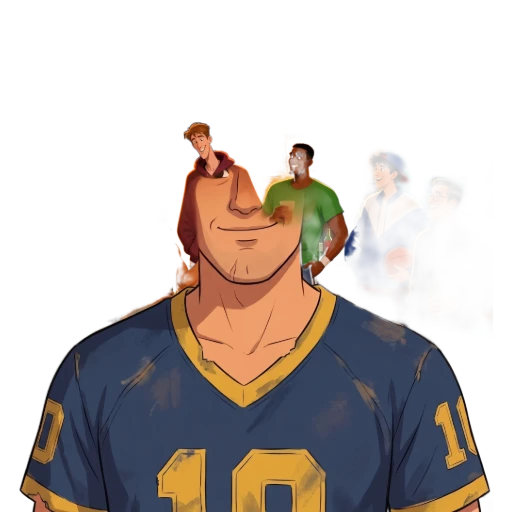
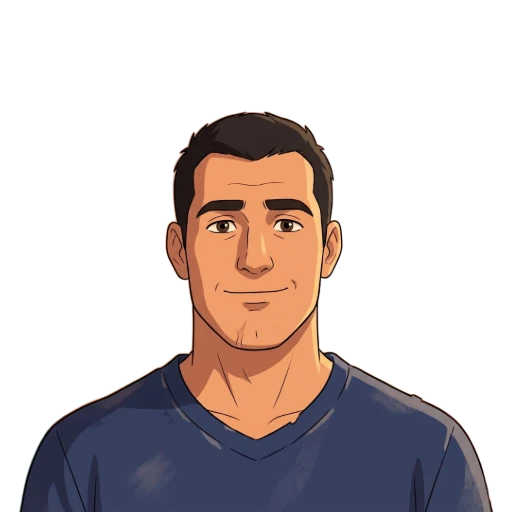
feat: el juego se juega sobre la cancha — fondo propio, y Acosta y Cardozo con cara nueva
Dos cosas que pidió Gabi.

El fondo: se terminó el gris sobre gris
Todas las pantallas del juego se apoyan ahora sobre el parqué gastado de una
cancha de barrio (fondo-cancha.webp), en un div fijo detrás de todo con un velo
oscuro encima. El velo no es decoración: sin él los paneles claros flotan sobre
un piso del mismo valor y se pierde el borde. Las cards ganaron algo de sombra
para despegarse. Queda además fondo-gimnasio.webp —la cancha desde la tribuna al
atardecer, con más carácter y más detalle— y cambiar de uno a otro es cambiar la
constante FONDO en App.tsx.

Los dos retratos que salieron mal
El leal (Acosta) y el mercenario (Cardozo) habían salido con figuras fantasma de
la portada pegadas en el fondo —el modelo copió gente de la imagen de
referencia—, el quitafondos no las borró porque estaban integradas al dibujo, y
al leal el recorte al contenido le comió media cabeza persiguiendo esos
fantasmas. Regenerados con el prompt de los seis que sí funcionaron, pidiendo
explícitamente una sola persona en cuadro y aire arriba de la cabeza. Ahora los
ocho arquetipos son de la misma familia.

De paso quedó aprendido para el próximo lote: el prompt que dice "fondo plano y
vacío" invita al modelo a llenar el fondo con lo que ve en la referencia; el que
dice "pared del club fuera de foco" no.

Trabajado desde Opus.

diff --git a/src/App.tsx b/src/App.tsx
@@ -68,6 +68,14 @@ const VIEWS: Record<Tab, { label: string; sec: string; icon: IconName }> = {
  */
 const PORTADA = `${import.meta.env.BASE_URL}portada.webp`;
 
+/**
+ * Fondo de todas las pantallas del juego (no del menú, que tiene su portada).
+ * Alternativa lista en `public/arte/`: `fondo-gimnasio.webp`, la cancha vista
+ * desde la tribuna — tiene más carácter y también más detalle compitiendo con
+ * los paneles. Cambiar de fondo es cambiar este nombre.
+ */
+const FONDO = 'fondo-cancha.webp';
+
 const DIFFICULTY_INFO: Record<AbsenceDifficulty, { label: string; desc: string }> = {
   facil: { label: 'Fácil', desc: 'Casi siempre están todos: la vida molesta poco.' },
   medio: { label: 'Medio', desc: 'La vida pasa: enfermos, viajes y algún lesionado.' },
@@ -255,6 +263,14 @@ export default function App() {
     <OpenLeagueContext.Provider value={setLeagueProfileId}>
     <OpenClubContext.Provider value={setClubProfileId}>
     <NavigateTabContext.Provider value={navigate}>
+      {/* El lienzo: la cancha del club detrás de todo, con un velo encima para
+          que los paneles claros se despeguen. Antes era gris plano y los
+          paneles quedaban gris sobre gris. Va acá y no en el body porque el
+          proyecto usa base relativa: la ruta se arma con BASE_URL. */}
+      <div
+        className="fondo-app"
+        style={{ backgroundImage: `url(${import.meta.env.BASE_URL}arte/${FONDO})` }}
+      />
       {screen}
       {profileId && <PlayerProfile state={state} playerId={profileId} onClose={() => setProfileId(null)} />}
       {rivalProfileId && (

diff --git a/src/styles.css b/src/styles.css
@@ -467,6 +467,38 @@ button.danger {
   gap: 0.45rem;
 }
 
+/* ---------- Lienzo ---------- */
+
+/* La cancha del club detrás de toda la app (ver FONDO en App.tsx). Fija: no
+   scrollea con el contenido, así se lee como el piso sobre el que están
+   apoyados los paneles y no como una imagen larga que pasa. */
+.fondo-app {
+  position: fixed;
+  inset: 0;
+  z-index: -1;
+  background-color: var(--bg);
+  background-size: cover;
+  background-position: center;
+}
+
+/* El velo. Sin él los paneles claros flotan sobre un piso del mismo valor y se
+   pierde el borde; con él, el fondo es atmósfera y la lectura sigue siendo la
+   de un manager. */
+.fondo-app::after {
+  content: '';
+  position: absolute;
+  inset: 0;
+  background: linear-gradient(180deg, rgba(32, 28, 24, 0.42), rgba(24, 21, 19, 0.62));
+}
+
+/* Sobre un fondo oscuro los paneles necesitan despegarse un poco más. */
+.vista .card,
+.hub-block,
+.hub-plantel,
+.hub-centro {
+  box-shadow: 0 2px 10px rgba(20, 18, 16, 0.28);
+}
+
 /* Banda ilustrada de card (ver ui/Cabecera.tsx). Va pegada abajo del cabezal de
    color y sangra hasta los bordes: la ilustración es la card, no un adorno
    dentro de ella. El encuadre baja el centro para no cortar cabezas. */

diff --git a/public/arte/LEEME.md b/public/arte/LEEME.md
@@ -22,6 +22,19 @@ El encuadre lo decide `.cabecera-arte` en `src/styles.css` (`background-position
 34%`): la banda muestra una franja, así que al cambiar una ilustración hay que mirar que
 las caras no queden cortadas.
 
+## Fondo de pantalla (16:9, 1920 px)
+
+El lienzo de todas las pantallas del juego (no el del menú, que usa `portada.webp`). Va en
+un `div` fijo detrás de todo — `.fondo-app` en `src/styles.css` — con un velo oscuro
+encima: sin el velo, los paneles claros flotan sobre un piso del mismo valor.
+
+| Archivo | Qué es |
+| --- | --- |
+| `fondo-cancha.webp` | **En uso.** El parqué gastado visto desde arriba: parejo, sin foco, no compite |
+| `fondo-gimnasio.webp` | Alternativa: la cancha desde la tribuna al atardecer. Más carácter, más detalle |
+
+Cambiar de fondo es cambiar la constante `FONDO` en `src/App.tsx`.
+
 ## Retratos de arquetipo (1:1, 512 px, **sin fondo**)
 
 Uno por personalidad del juego, recortados con alfa: el fondo azul lo pone la caja
